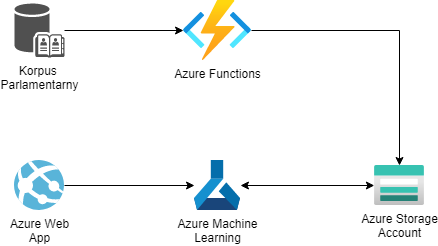
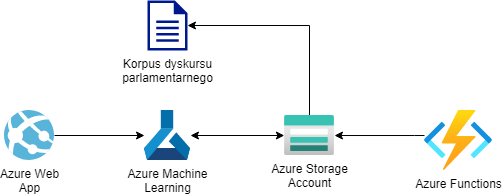
Readme update - added scheme of the project, updated architecture diagram, added requirements, added descripton, other minor changes

diff --git a/readme.md b/readme.md
@@ -1,16 +1,22 @@
 # EY - Text Generation
 
-**Zespół:**
+## **Członkowie zespołu:**
 
-1. Karol Adameczek 299231
+1. Karol Adameczek 299231 
 2. Dawid Rawski 299287
 3. Robert Martyka 299268
 
 
 
-**Zadanie:**
+## **Opis projektu:**
 
-Zbudowanie aplikacji uzupełniającej zdania w języku polskim rozpoczęte przez użytkownika - generator tekstu.
+Celem projektu jest stworzenie aplikacji uzupełniającej wprowadzone przez użytkownika rozpoczęcie zdania w języku polskim. Tekst będzie generowany przez model uczenia maszynowego, którego wiedza będzie bazować na korpusie dyskursu parlamentarnego. Drugim celem projektu jest przygotowanie propozycji na temat przygotowania i pre-procesowania danych, które mogą pozwolić na uzyskanie lepszych wyników.
+
+
+
+**Treść zadania**
+
+Strona 5. https://github.com/ekote/AI-on-Microsoft-Azure/blob/main/intro-inz/projects/EY.pdf
 
 
 
@@ -20,24 +26,20 @@ Zbudowanie aplikacji uzupełniającej zdania w języku polskim rozpoczęte przez
 
 
 
-**Stos technologiczny:**
+## Zasada działania
 
-* Python3 
-  * Flask
-* javascript
-* HTML/CSS
-* Designer w Azure Machine Learning
+### **Schemat**
+
+![](schemat.png)
 
 
-
-## Funkcjonalność
 
 1. Użytkownik ładuje stworzoną stronę internetową w przeglądarce,
 2. W pole tekstowe wprowadza początek określonego zdania,
-   - strona internetowa za pomocą skryptu javascript wysyła zapytanie o dokończenie aktualnej treści zdania,
-   - na podstawie przesłanej treści wytrenowany model generuje drugą część zdania,
-   - wygenerowana treść jest odsyłana jako odpowiedź na poprzednie zapytanie,
-   - model doucza się na podstawie początku zdania podanego przez użytkownika.
+   1. strona internetowa za pomocą skryptu wysyła zapytanie o dokończenie aktualnej treści zdania,
+   2. na podstawie przesłanej treści wytrenowany model generuje propozycje kolejnych słów i dla najlepszej opcji generuje całe zdanie do końca,
+   3. wygenerowana treść jest odsyłana jako odpowiedź na poprzednie zapytanie,
+   4. model doucza się na podstawie początku zdania podanego przez użytkownika.
 
 
 
@@ -45,10 +47,39 @@ Zbudowanie aplikacji uzupełniającej zdania w języku polskim rozpoczęte przez
 
 ![](diagram.png)
 
-* Azure Machine Learning z Designerem, wykorzystanie bloków Web Input oraz Web Output
-* App Services - Web App do hostowania strony internetowej
-* Azure Storage Accouts - dane do machine learningu
-* Azure Functions - preprocesowanie danych do uczenia
+* Azure Machine Learning z Designerem, wykorzystanie bloków Web Input oraz Web Output,
+* App Services - Web App do hostowania strony internetowej i obsługi zapytań,
+* Azure Storage Accounts - dane do machine learningu,
+* Azure Functions - preprocesowanie danych do uczenia.
+
+
+
+## **Stos technologiczny:**
+
+* Python3 
+  * Flask
+* Javascript
+* HTML/CSS
+* Designer w Azure Machine Learning
+
+
+
+## Wymagania
+
+### Wymagania funkcjonalne
+
+* Aplikacja uzupełnia zdania w czasie rzeczywistym (brak przeładowania strony).
+* Aplikacja podaje użytkownikowi więcej niż jedną propozycję następnego słowa.
+* Aplikacja tworzy zdania oznajmujące, pytające i rozkazujące.
+* Do uczenia modelu wykorzystany jest korpus dyskursu parlamentarnego.
+
+### Wymagania niefunkcjonalne
+
+* Wyuczenie modelu uczenia maszynowego do automatycznego uzupełniania zdań.
+* Stworzenie aplikacji sieciowej wykorzystującej model.
+* Stworzenie dziennika/sprawozdania, w którym zawarte będą informacje na temat wykorzystywanych modeli i ich użyteczności
+
+
 
 ## Harmonogram
 
